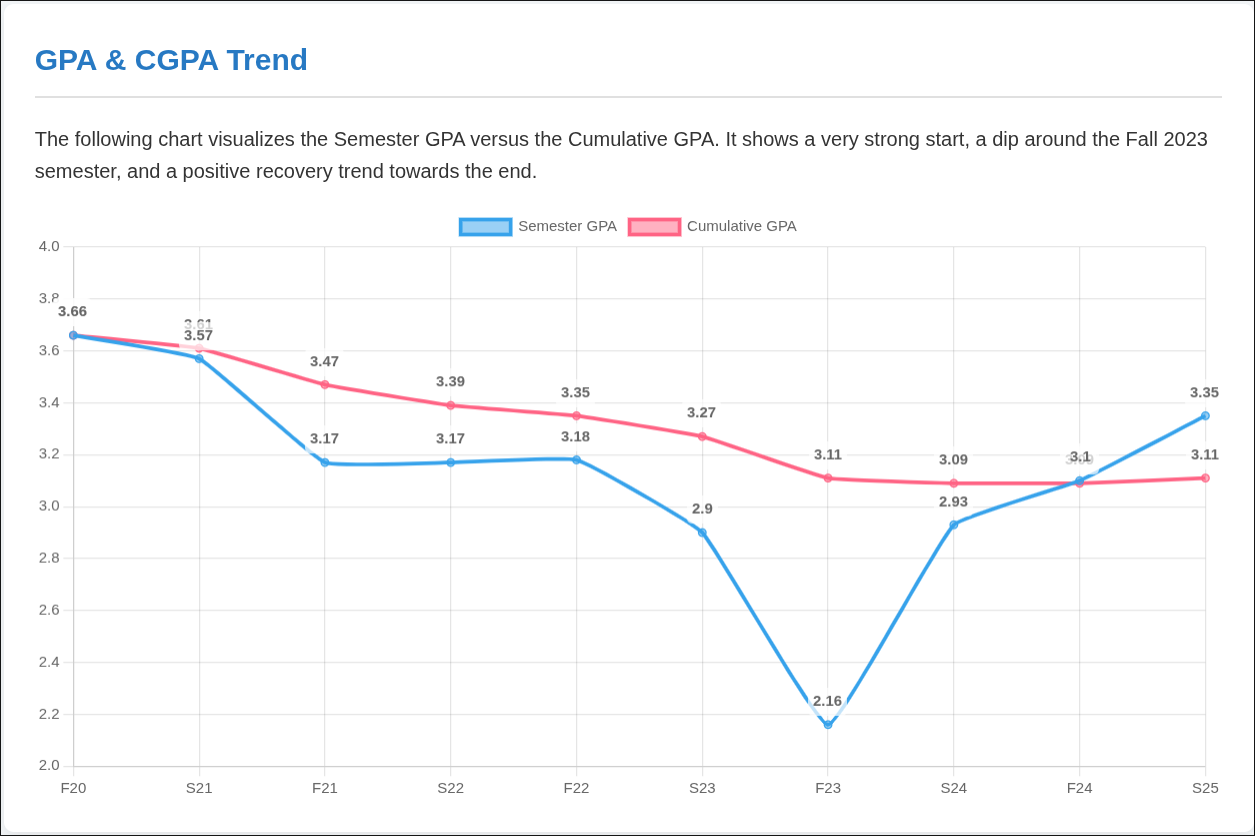
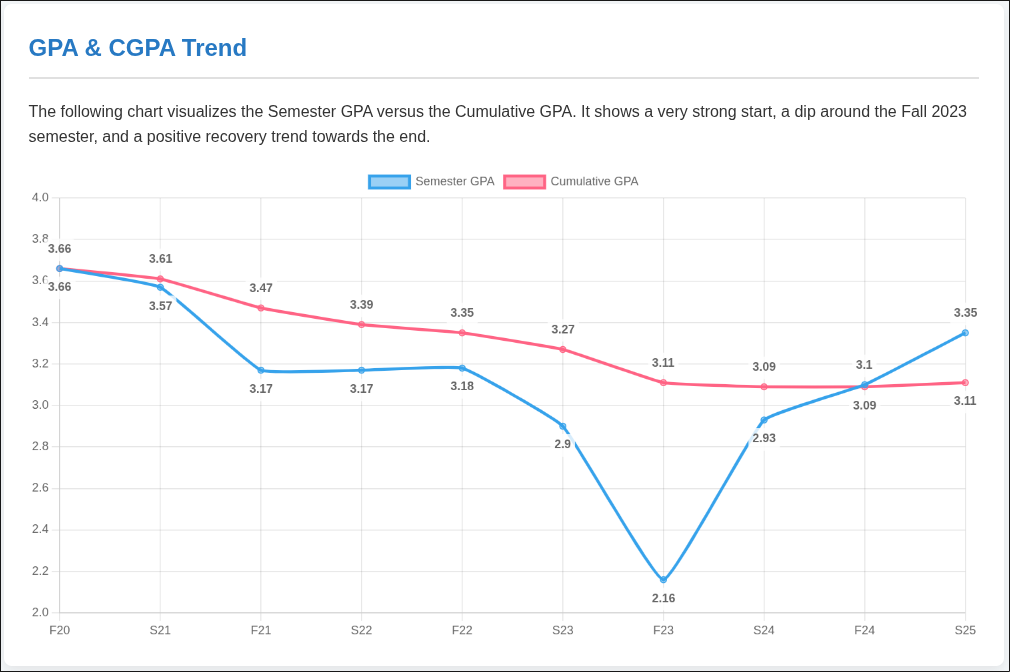
FIX: text overlaping

diff --git a/script.js b/script.js
@@ -15,32 +15,58 @@ document.addEventListener('DOMContentLoaded', () => {
                 data: [3.66, 3.57, 3.17, 3.17, 3.18, 2.90, 2.16, 2.93, 3.10, 3.35],
                 borderColor: 'rgb(54, 162, 235)',
                 backgroundColor: 'rgba(54, 162, 235, 0.5)',
-                tension: 0.1
+                tension: 0.1,
+                // --- DYNAMIC ALIGNMENT LOGIC for Semester GPA ---
+                datalabels: {
+                    align: function(context) {
+                        const index = context.dataIndex;
+                        const gpaValue = context.chart.data.datasets[0].data[index];
+                        const cgpaValue = context.chart.data.datasets[1].data[index];
+                        // If GPA is higher than or equal to CGPA, put its label on top. Otherwise, bottom.
+                        return gpaValue >= cgpaValue ? 'top' : 'bottom';
+                    },
+                    offset: 8
+                }
             }, {
                 label: 'Cumulative GPA',
                 data: [3.66, 3.61, 3.47, 3.39, 3.35, 3.27, 3.11, 3.09, 3.09, 3.11],
                 borderColor: 'rgb(255, 99, 132)',
                 backgroundColor: 'rgba(255, 99, 132, 0.5)',
-                tension: 0.1
+                tension: 0.1,
+                // --- DYNAMIC ALIGNMENT LOGIC for Cumulative GPA ---
+                datalabels: {
+                    align: function(context) {
+                        const index = context.dataIndex;
+                        const gpaValue = context.chart.data.datasets[0].data[index];
+                        const cgpaValue = context.chart.data.datasets[1].data[index];
+                        // This logic is the INVERSE of the one above to prevent collisions.
+                        return gpaValue >= cgpaValue ? 'bottom' : 'top';
+                    },
+                    offset: 8
+                }
             }]
         },
         options: {
             plugins: {
+                // Global settings for all data labels
                 datalabels: {
-                    align: 'end',
-                    anchor: 'end',
-                    backgroundColor: 'rgba(255, 255, 255, 0.7)',
+                    backgroundColor: 'rgba(255, 255, 255, 0.8)',
                     borderRadius: 4,
-                    font: { weight: 'bold' }
+                    font: {
+                        weight: 'bold'
+                    }
                 }
             },
             scales: {
-                y: { suggestedMin: 2.0, suggestedMax: 4.0 }
+                y: {
+                    suggestedMin: 2.0,
+                    suggestedMax: 4.0
+                }
             }
         }
     });
 
-    // --- 2. Grade Distribution Histogram ---
+    // --- 2. Grade Distribution Histogram (No changes here) ---
     const histogramCtx = document.getElementById('histogramChart').getContext('2d');
     new Chart(histogramCtx, {
         type: 'bar',
@@ -50,7 +76,7 @@ document.addEventListener('DOMContentLoaded', () => {
                 label: 'Grade Count',
                 data: [7, 3, 6, 10, 4, 6, 1, 2, 2, 2, 3],
                 backgroundColor: [
-                    '#4CAF50', '#8BC34A', '#CDDC39', '#FFEB3B', '#FFC107', 
+                    '#4CAF50', '#8BC34A', '#CDDC39', '#FFEB3B', '#FFC107',
                     '#FF9800', '#FF5722', '#F44336', '#E91E63', '#9C27B0', '#673AB7'
                 ]
             }]
@@ -64,7 +90,6 @@ document.addEventListener('DOMContentLoaded', () => {
                     font: { weight: 'bold' }
                 }
             },
-            // UPDATED SCALES FOR Y-AXIS
             scales: {
                 y: {
                     min: 0,
@@ -74,7 +99,7 @@ document.addEventListener('DOMContentLoaded', () => {
         }
     });
 
-    // --- 3. Grade Distribution Pie Chart ---
+    // --- 3. Grade Distribution Pie Chart (No changes here) ---
     const pieCtx = document.getElementById('pieChart').getContext('2d');
     new Chart(pieCtx, {
         type: 'pie',
